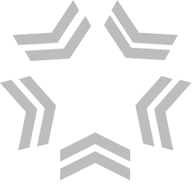
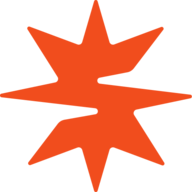
WIP: Redesign

diff --git a/src/features/core/components/App/Sidebar/Sidebar.tsx b/src/features/core/components/App/Sidebar/Sidebar.tsx
@@ -1,5 +1,3 @@
-import './Sidebar.css'
-
 import { Icon, Link, Switch, Typography, useTheme } from '@onestaree/ui-kit'
 import classNames from 'classnames'
 import { useLocation, useNavigate } from 'react-router-dom'
@@ -16,7 +14,6 @@ export function Sidebar(): JSX.Element {
     <div className={classNames(styles.Sidebar, '_backgroundColorTransition')}>
       <div className={styles.LogoContainer} onClick={(): void => navigate('/')}>
         <div className={styles.Logo} />
-        <Typography variant="h2">StakeStar</Typography>
       </div>
       <ul className={styles.Menu}>
         {menu.map(({ title, path, soon }) => (
@@ -41,10 +38,10 @@ export function Sidebar(): JSX.Element {
       <div className={styles.Footer}>
         <ul className={styles.Links}>
           <li className={styles.LinksRow}>
-            <Link href="~/features/core/components/App/Sidebar/Sidebar#" target="_self">
+            <Link href="#" target="_self">
               <Typography variant="text2">T&Cs</Typography>
             </Link>
-            <Link href="~/features/core/components/App/Sidebar/Sidebar#" target="_self">
+            <Link href="#" target="_self">
               <Typography variant="text2">Privacy Policy</Typography>
             </Link>
           </li>

diff --git a/src/features/core/components/App/Sidebar/Sidebar.module.scss b/src/features/core/components/App/Sidebar/Sidebar.module.scss
@@ -18,8 +18,8 @@
     user-select: none;
 
     .Logo {
-      width: 2.5rem;
-      height: 2.5rem;
+      width: 168px;
+      height: 44px;
       margin-right: 0.5rem;
       background: url(./logo.svg) no-repeat center/cover;
       z-index: 1;
@@ -35,8 +35,9 @@
       min-height: 56px;
       margin-bottom: 6px;
       padding: 0 1.5rem;
-      border-radius: 1rem;
-      font-family: 'Finlandica', sans-serif;
+      border: 1px solid transparent;
+      border-radius: 0.75rem;
+      font-family: 'Kanit', sans-serif;
       font-style: normal;
       font-weight: 500;
       font-size: 18px;
@@ -44,18 +45,28 @@
       color: var(--textColor);
       cursor: pointer;
       user-select: none;
+      transition: all 0.15s ease;
+
+      &:hover {
+        border-color: #d8481e;
+      }
 
       &:last-child {
         margin-bottom: 0;
       }
 
-      &:global(._active) {
-        color: white;
-      }
-
       &.soon {
         cursor: not-allowed;
         color: var(--inputTextColor);
+      }
+
+      &:global(._active) {
+        color: white;
+        background-color: #f14d1d;
+
+        &:hover {
+          background-color: #d8481e;
+        }
       }
 
       .Badge {

diff --git a/src/features/core/styles/global.scss b/src/features/core/styles/global.scss
@@ -1,4 +1,4 @@
-@import url('https://fonts.googleapis.com/css2?family=Finlandica:wght@400;500&family=Roboto&display=swap');
+@import url('https://fonts.googleapis.com/css2?family=Kanit:wght@500&display=swap');
 
 body {
   font-family: -apple-system, BlinkMacSystemFont, 'Segoe UI', 'Roboto', 'Oxygen', 'Ubuntu', 'Cantarell', 'Fira Sans',
@@ -87,5 +87,39 @@ strong {
 :global(.Toastify__toast) {
   a {
     color: var(--primaryAccentColor);
+  }
+}
+
+body {
+  [class*='Input_module_Input'] {
+    [class*='Input_module_InputWrapper'] {
+      border-radius: 0.75rem;
+    }
+  }
+
+  [class*='Button_module_Button'] {
+    background: #f14d1d;
+
+    &:hover {
+      background-color: #d8481e;
+      --buttonColor1: #d8481e;
+      --buttonColor2: #d8481e;
+    }
+
+    &:disabled {
+      background-color: rgba(#f14d1d, 0.3);
+    }
+
+    [class*='Button_module_large'] {
+      border-radius: 0.75rem;
+    }
+  }
+
+  [class*='Typography_module_Typography'] {
+    &[class*='Typography_module_h2Numbers'] {
+      font-family: 'Kanit', sans-serif;
+      font-size: 24px;
+      line-height: 28px;
+    }
   }
 }

diff --git a/src/features/wallet/components/WalletControl/ConnectWalletButton.tsx b/src/features/wallet/components/WalletControl/ConnectWalletButton.tsx
@@ -1,15 +1,17 @@
 import { Button, usePopup } from '@onestaree/ui-kit'
 
 import { popups } from '../../popups'
+import styles from './ConnectWalletButton.module.scss'
 
 export function ConnectWalletButton(): JSX.Element {
   const popup = usePopup()
 
   return (
     <Button
+      className={styles.ConnectWalletButton}
       title="Connect Wallet"
       type="primary"
-      size="large"
+      size="small"
       onClick={(): void => popup.open(popups.selectWalletPopup)}
     />
   )

diff --git a/src/features/wallet/popups/UnsupportedNetworkPopup.module.scss b/src/features/wallet/popups/UnsupportedNetworkPopup.module.scss
@@ -2,7 +2,6 @@
   display: flex;
   flex-direction: column;
   max-width: 26rem;
-  font-family: 'Finlandica', sans-serif;
   font-style: normal;
   font-weight: 500;
   font-size: 1rem;

diff --git a/src/features/wallet/components/WalletControl/ConnectWalletButton.module.scss b/src/features/wallet/components/WalletControl/ConnectWalletButton.module.scss
@@ -1,0 +1,4 @@
+.ConnectWalletButton {
+  padding: 8px 16px !important;
+  border-radius: 12px !important;
+}

diff --git a/src/features/core/components/Page/Page.module.scss b/src/features/core/components/Page/Page.module.scss
@@ -12,5 +12,6 @@
 
   .Title {
     margin-bottom: 2.5rem;
+    font-family: 'Kanit', sans-serif;
   }
 }
